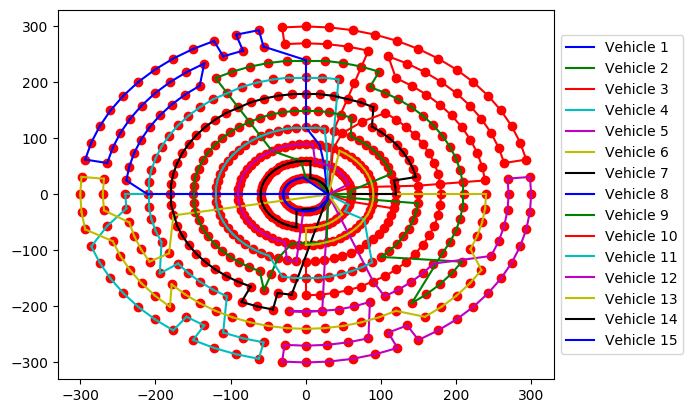
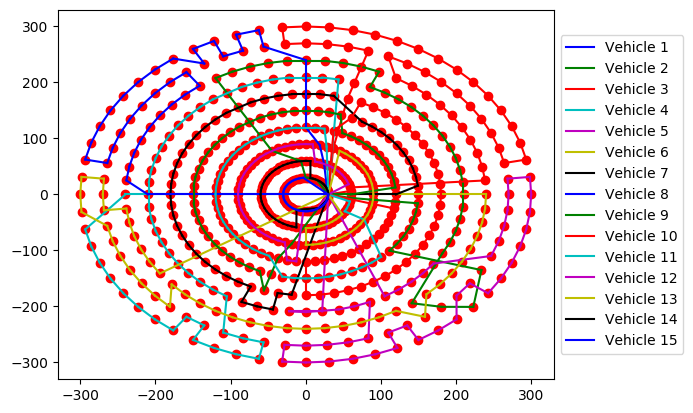
Adding strategy select and renaming trucks variable

diff --git a/templates/index.html b/templates/index.html
@@ -25,6 +25,11 @@
             <option value="LIU-ET-AL">Liu et al</option>
             <option value="UCHOA">Uchoa et al</option>
         </select>
+        <select name="strategy">
+            <option value="">Choose strategy</option>
+            <option value="first-solution">First solution strategy</option>
+            <option value="local-search">Local search</option>
+        </select>
         <input type="text" name="trucks" placeholder="Number of trucks" class="input trucks">
         <input type="text" name="url" placeholder="Paste here URL of your set" class="input url">
         <button type="submit" class="button">Solve</button>
@@ -38,7 +43,8 @@
 
     <div class="info">
         <div class="basic">
-            <h3>Solution info:</h3>
+            <h3>Solution data:</h3>
+            <p>Solution strategy: {{ strategy }}</p>
             <p>Number of customers: {{ customers }}</p>
             <p>Number of vehicles: {{ vehicles }}</p>
             <p>Capacity: {{ capacity }}</p>

diff --git a/vrp.py b/vrp.py
@@ -10,10 +10,11 @@ import data as modelData
 import printSolution as print
 import getRoutes
 
-def cvrp(data, set, trucks):
+
+def cvrp(data, set, vehicles, strategy):
     """Solve the CVRP problem."""
     # Instantiate the data problem.
-    data, name = modelData.create_data_model(data, set, trucks)
+    data, name = modelData.create_data_model(data, set, vehicles)
 
     # Create the routing index manager.
     manager = pywrapcp.RoutingIndexManager(len(data['distance_matrix']),
@@ -56,12 +57,17 @@ def cvrp(data, set, trucks):
 
     # Setting first solution heuristic.
     search_parameters = pywrapcp.DefaultRoutingSearchParameters()
-    # search_parameters.first_solution_strategy = (
-    #     routing_enums_pb2.FirstSolutionStrategy.PATH_CHEAPEST_ARC)
 
-    search_parameters.local_search_metaheuristic = (
-        routing_enums_pb2.LocalSearchMetaheuristic.AUTOMATIC)
-    search_parameters.time_limit.seconds = 20
+    if strategy == 'first-solution':
+        search_parameters.first_solution_strategy = (
+            routing_enums_pb2.FirstSolutionStrategy.AUTOMATIC)
+    elif strategy == 'local-search':
+        search_parameters.local_search_metaheuristic = (
+            routing_enums_pb2.LocalSearchMetaheuristic.AUTOMATIC)
+        search_parameters.time_limit.seconds = 20
+    else:
+        search_parameters.first_solution_strategy = (
+            routing_enums_pb2.FirstSolutionStrategy.PATH_CHEAPEST_ARC)
 
     # Solve the problem.
     assignment = routing.SolveWithParameters(search_parameters)
@@ -74,5 +80,3 @@ def cvrp(data, set, trucks):
     route_arr = print.print_routes(routes)
     plot.create_plot(data['points'], routes, vehicle_distance, name)
     return vehicle_distance, vehicle_load, text, name, route_arr
-
-

diff --git a/parseData.py b/parseData.py
@@ -1,5 +1,5 @@
-def parse_file(file_string, set, num_trucks):
-    print('SET: ', set, num_trucks)
+def parse_file(file_string, set, vehicles):
+    print('SET: ', set, vehicles)
     if set == 'LIU-ET-AL':
         file_string_split = file_string.split('\r\n')
     elif set == 'SET-E' or set == 'SET-B' or set == 'SET-A'or set == 'SET-F' or set == 'SET-M':
@@ -20,14 +20,14 @@ def parse_file(file_string, set, num_trucks):
         if "DEMAND_SECTION" in i:
             index_demand = file_string_split.index(i) + 1
         if "trucks: " in i and (set == 'SET-E' or set == "SET-B" or set == "SET-A" or set == 'SET-F' or set == 'SET-M'):
-            trucks_str = i.split("trucks: ", 1)[1][:2]
-            without_coma = trucks_str.replace(',', '')
+            vehicles = i.split("trucks: ", 1)[1][:2]
+            without_coma = vehicles.replace(',', '')
             print('trucks str', without_coma)
-            trucks = int(without_coma)
+            vehicles = int(without_coma)
         if set == 'LIU-ET-AL' or set == 'UCHOA':
-            trucks = int(num_trucks)
+            vehicles = int(vehicles)
 
-    capacity = [capacity] * trucks
+    capacity = [capacity] * vehicles
     points_string = []
     demands_string = []
     if set != 'LIU-ET-AL':
@@ -52,5 +52,5 @@ def parse_file(file_string, set, num_trucks):
     print('dimension', dimension)
     print('point_int', point_int)
     print('demand_int', demand_int)
-    print('trucks', trucks)
-    return name, capacity, dimension, point_int, demand_int, trucks
+    print('vehicles', vehicles)
+    return name, capacity, dimension, point_int, demand_int, vehicles

diff --git a/app.py b/app.py
@@ -17,15 +17,16 @@ def upload():
         dataSend = True
         url = request.form['url']
         set = request.form.get('set')
-        trucks = request.form['trucks']
+        strategy = request.form.get('strategy')
+        vehicles = request.form['trucks']
         output = urlopen(url).read()
         file_string = (output.decode('utf-8'))
-        # file_string = output.decode('ISO 8859-1')
-        vehicle_distance, vehicle_load, text, filename, route_arr = vrp.cvrp(file_string, set, trucks)
-        name, capacity, dimension, point_int, demand_int, trucks = parseData.parse_file(file_string, set, trucks)
+        vehicle_distance, vehicle_load, text, filename, route_arr = vrp.cvrp(file_string, set, vehicles, strategy)
+        name, capacity, dimension, point_int, demand_int, trucks = parseData.parse_file(file_string, set, vehicles)
 
         return render_template('index.html', dataSend=dataSend, file_string=text, filename=filename,
-                               customers=dimension, vehicles=trucks, capacity=capacity[0], route_arr=route_arr, set=set,
+                               customers=dimension, vehicles=vehicles, capacity=capacity[0], route_arr=route_arr,
+                               set=set, strategy=strategy,
                                trucks=trucks, opt_distance=sum(vehicle_distance))
     return render_template('index.html')
 

diff --git a/data.py b/data.py
@@ -28,10 +28,10 @@ def get_distance_matrix(points):
     return distance_matrix
 
 
-def create_data_model(file_string, set, trucks):
+def create_data_model(file_string, set, vehicles):
     """Stores the data for the problem."""
     data = {}
-    name, capacity, dimension, points, demands, vehicles = parseData.parse_file(file_string, set, trucks)
+    name, capacity, dimension, points, demands, vehicles = parseData.parse_file(file_string, set, vehicles)
     distance_matrix = get_distance_matrix(points)
     data['distance_matrix'] = distance_matrix
     data['demands'] = demands
